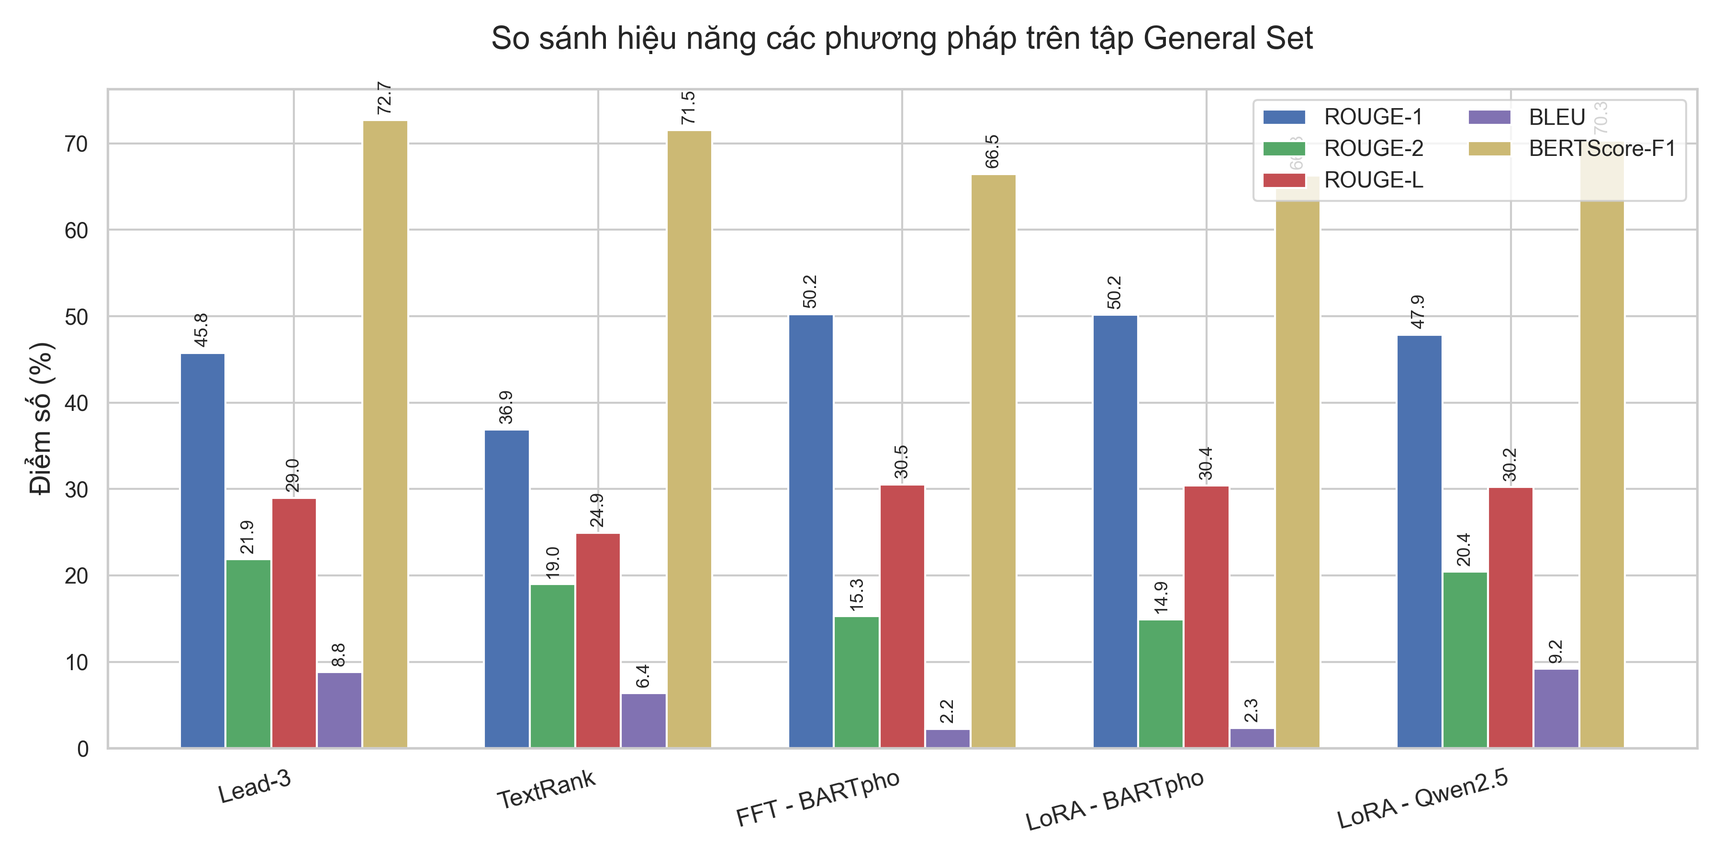
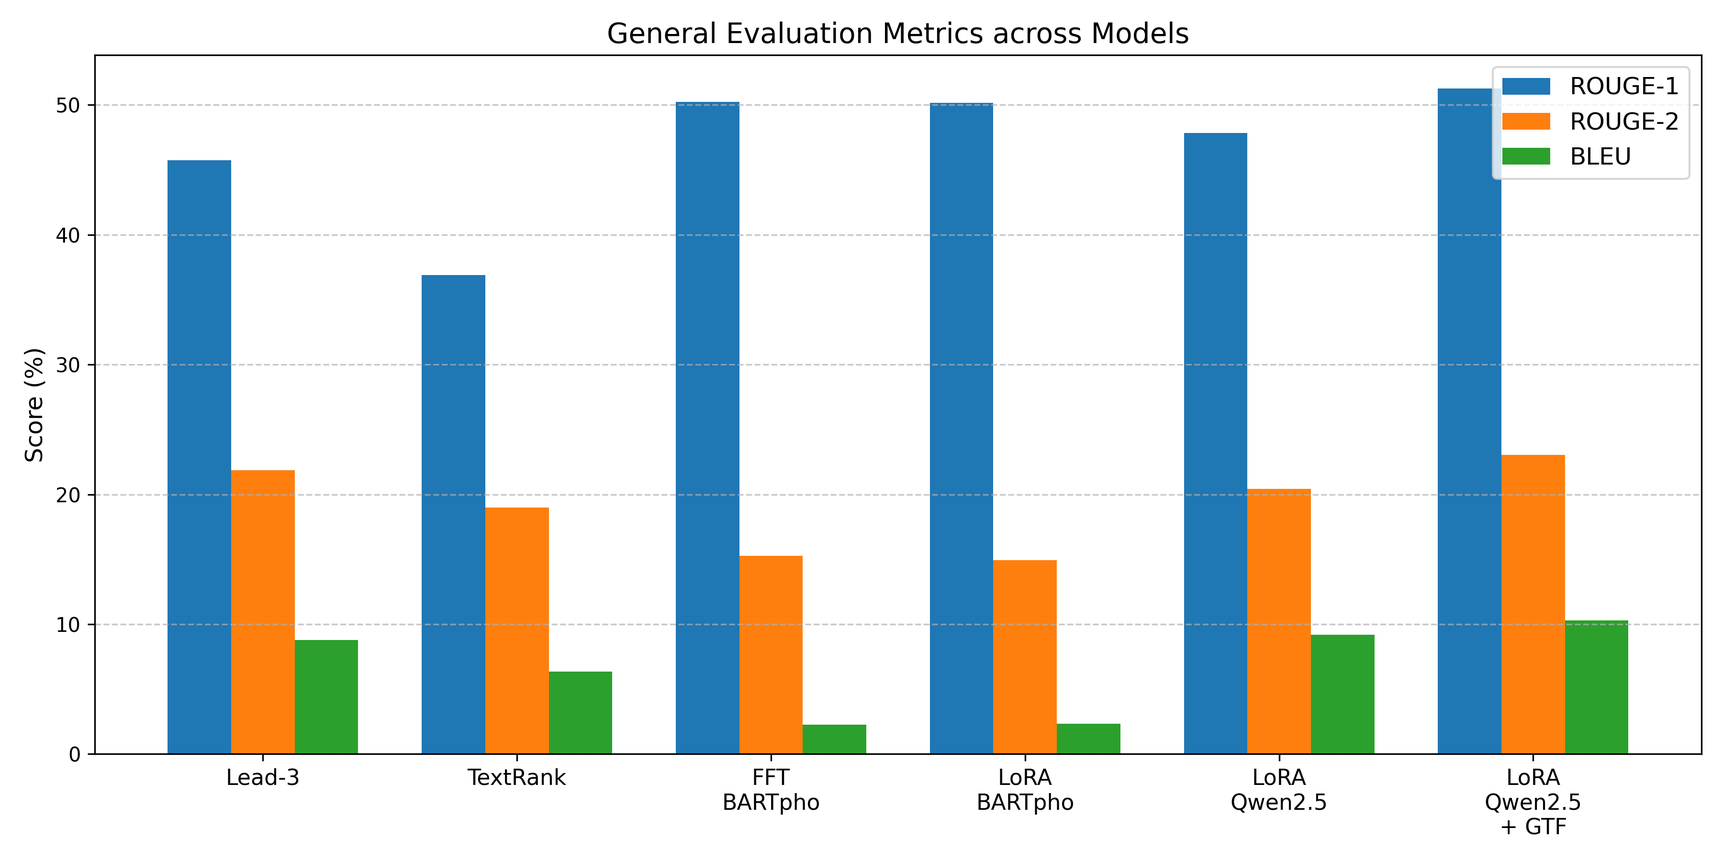
feat(notebooks): update LLM-as-a-Judge notebook to include new data merging logic and increase sample size for evaluation feat(scripts): add GTFPenaltyLogitsProcessor for handling token repetition during generation

diff --git a/paper/main.tex b/paper/main.tex
@@ -567,6 +567,9 @@ BARTpho đạt mức ROUGE-1 khá cao (FFT: 50.24, với Khoảng tin cậy 95\%
 \paragraph{Qwen2.5 và sức mạnh của GTF-Penalty.}
 Qwen2.5 nguyên bản (chỉ tinh chỉnh LoRA) gặp phải hiện tượng lặp từ phổ biến ở cấu trúc Causal Decoder, khiến ROUGE-1 chỉ đạt 47.85. Tuy nhiên, khi kết hợp giải mã với thuật toán \textit{Generative Token Frequency (GTF) Penalty}, hiệu năng sinh văn bản bùng nổ mạnh mẽ. Phiên bản \textbf{Qwen2.5 + GTF} thiết lập mức trần (SOTA) mới trên mọi chỉ số sinh: ROUGE-1 đạt 51.28 (vượt qua hoàn toàn cả BARTpho), ROUGE-2 đạt 23.05 và BLEU đạt 10.29 (vượt xa mức trích xuất tĩnh của Lead-3). Việc can thiệp trực tiếp vào Logits bằng cách phạt các token sinh lặp (nhưng không phạt các token thuộc về văn bản gốc) đã giải phóng hoàn toàn sức mạnh tiền huấn luyện 18 nghìn tỷ token của Qwen2.5. Các chỉ số này phản ánh khả năng vừa sinh văn bản trừu tượng, mượt mà mà vẫn giữ được độ liên kết cấu trúc n-gram ở mức độ rất cao. Điểm BERTScore của Qwen2.5+GTF (72.52) cũng tiệm cận mức của Lead-3 (72.69).
 
+\paragraph{Lý do GTF-Penalty mang tính đặc trị cho Causal LM.}
+Một khía cạnh phương pháp luận quan trọng là tại sao GTF-Penalty lại mang tính đặc trị cho Qwen2.5 (và Custom Transformer) mà không áp dụng cho BARTpho. Sự khác biệt nằm ở cơ chế Attention: BARTpho (Seq2Seq) sở hữu luồng Cross-Attention tách biệt, giúp Decoder liên tục đối chiếu độc lập với ngữ cảnh tĩnh của bài báo từ Encoder, do đó hiếm khi rơi vào vòng lặp vô hạn (chứng minh qua việc BARTpho gốc vẫn đạt ROUGE-1 > 50). Ngược lại, kiến trúc Decoder-only của Qwen2.5 dùng chung không gian Self-Attention cho cả bài báo đầu vào lẫn văn bản đang sinh. Khi tính chất tự hồi quy (auto-regressive) vô tình lặp lại một từ, mô hình lập tức dồn trọng số chú ý vào chính lỗi lặp đó, gây ra hiện tượng \textit{Exposure Bias} nghiêm trọng. Về mặt kỹ thuật, thuật toán GTF-Penalty yêu cầu quyền truy cập vào mảng token \texttt{[Prompt + Generated]} để chỉ phạt các từ lặp trong phần tóm tắt sinh ra mà không phạt các thực thể (entities) được copy từ bài báo. Thông tin ngữ cảnh chéo này khả dụng ở Causal LM nhưng bị chia cắt ở luồng LogitsProcessor của mô hình Seq2Seq. Do đó, GTF-Penalty chính là một sự can thiệp có chủ đích (targeted intervention) nhằm giải phóng nút thắt lặp từ, cho phép Causal LLM khai thác trọn vẹn tri thức tiền huấn luyện để đánh bại kiến trúc Seq2Seq truyền thống.
+
 \paragraph{LoRA so với Full Fine-Tuning.}
 Kết quả cho thấy LoRA trên BARTpho (ROUGE-1: 50.17) đạt hiệu năng tiệm cận FFT (ROUGE-1: 50.24), với chênh lệch chỉ 0.07 điểm ($\Delta = 0.14\%$). Trên BLEU, LoRA thậm chí cao hơn nhẹ (2.34 so với 2.25). Xét đến việc LoRA giảm trên 95\% số lượng tham số cần cập nhật, kết quả này cho thấy kỹ thuật PEFT rất hiệu quả trong các bài toán tóm tắt tiếng Việt. Điều này đồng thuận với kết luận của Hu et al. \cite{lora} rằng không gian cập nhật hiệu quả thường có chiều thấp hơn nhiều so với toàn bộ không gian tham số.
 
@@ -667,7 +670,7 @@ LoRA -- Qwen2.5 & 2.44 & 2.22 & 3.39 & \textbf{2.73} \\
 
 Về độ trôi chảy (Fluency), Qwen2.5 đạt \textbf{2.73}, ngang bằng với mô hình FFT-BARTpho tốt nhất và cao hơn LoRA-BARTpho (2.67). Phát hiện này phần nào nhất quán với quan sát từ chỉ số BLEU và BERTScore trước đó, gợi ý rằng Qwen2.5 có khả năng sinh văn bản tương đối trôi chảy -- dù cần lưu ý rằng kết quả này cũng có thể chịu ảnh hưởng từ quy mô dữ liệu tiền huấn luyện lớn hơn nhiều bậc của Qwen2.5.
 
-Tuy nhiên, Qwen2.5 lại cho điểm thấp hơn hẳn ở 3 tiêu chí còn lại: Relevance (2.44), Coherence (2.22), và Consistency (3.39). Hiện tượng này xuất phát từ bản chất của checkpoint \texttt{Qwen/Qwen2.5-0.5B}: đây là một mô hình gốc (Base model) chưa trải qua tinh chỉnh chỉ thị (Instruction Tuning) để làm theo cấu trúc tóm tắt chuyên biệt. Do đó, dù văn bản sinh ra trôi chảy, mô hình gặp khó khăn trong việc tổ chức một đoạn tóm tắt có cấu trúc chặt chẽ (Coherence) và chắt lọc đúng trọng tâm (Relevance/Consistency). Ngược lại, BARTpho với chiến lược tiền huấn luyện Denoising Autoencoder được thiết kế chuyên biệt cho các bài toán seq2seq \cite{bart_original}, giúp mô hình bám sát cấu trúc của đoạn tóm tắt tốt hơn.
+Tuy nhiên, Qwen2.5 lại cho điểm thấp hơn hẳn ở 3 tiêu chí còn lại: Relevance (2.44), Coherence (2.22), và Consistency (3.39). \textit{Cần lưu ý rằng kết quả chấm điểm này được thực hiện trên cấu hình Qwen2.5 nguyên bản (chưa áp dụng thuật toán GTF-Penalty)}. Do đó, mức điểm rất thấp ở tiêu chí Coherence (2.22) chính là minh chứng độc lập (từ góc nhìn của giám khảo AI) cho hiện tượng \textit{Exposure Bias} (kẹt lặp từ) đã được chúng tôi phân tích ở Mục 5.2. Mặc dù văn bản sinh ra có thể trôi chảy ở vài câu đầu (Fluency giữ mức 2.73), mô hình sau đó rơi vào vòng lặp, phá vỡ hoàn toàn tính liên kết logic của đoạn văn (Coherence) và làm suy giảm nặng nề khả năng truyền tải đúng trọng tâm (Relevance/Consistency). Sự sụt giảm này một lần nữa củng cố tầm quan trọng sống còn của việc phải trang bị thuật toán phạt lặp có chọn lọc (như GTF) khi sử dụng kiến trúc Causal LLM cho bài toán tóm tắt.
 
 Cần lưu ý rằng phần lớn các mô hình đều đạt điểm trung bình dưới 4.0/5.0, trong đó tiêu chí quan trọng nhất là Relevance chỉ dao động ở mức 2.44--2.80. Điều này cho thấy chất lượng tóm tắt tự động trên tiếng Việt nhìn chung vẫn còn khoảng cách đáng kể so với kỳ vọng, và việc cải thiện khả năng chắt lọc thông tin trọng tâm (Relevance) cùng tổ chức văn bản mạch lạc (Coherence) là hướng nghiên cứu cần được ưu tiên.
 
@@ -679,7 +682,7 @@ Cần lưu ý rằng phần lớn các mô hình đều đạt điểm trung bì
 Chúng tôi chia tập kiểm thử thành ba nhóm độ dài: ngắn ($<300$ từ), trung bình ($300-600$ từ), và dài ($>600$ từ). Kết quả cho thấy hiệu năng của Qwen2.5 suy giảm nghiêm trọng khi văn bản dài ra. Cụ thể, trong khi ROUGE-1 của Qwen2.5 trên các bài báo ngắn đạt 49.85 (chênh lệch $\sim$1.2 điểm so với BARTpho), thì trên các bài báo $>600$ từ, ROUGE-1 của Qwen2.5 rơi mạnh xuống mức 42.94, tạo ra khoảng cách lớn lên tới 6.4 điểm so với BARTpho (49.32). Sự suy giảm này chứng tỏ rằng Qwen2.5 (phiên bản Base 0.5B) gặp khó khăn trong việc duy trì chú ý đúng trọng tâm (attention allocation) ở các văn bản quá dài, đặc biệt khi chưa được tinh chỉnh cấu trúc (Instruction Tuning) bài bản cho nhiệm vụ tóm tắt. Trái lại, BARTpho giữ được hiệu năng khá ổn định bất chấp độ dài văn bản (chỉ giảm nhẹ từ 51.06 xuống 49.32).
 
 \paragraph{Phân tích hiện tượng lặp (Trigram Repetition Rate).}
-Nhằm định lượng mức độ suy thoái cấu trúc, chúng tôi tính toán Tỷ lệ lặp Trigram (Trigram Repetition Rate) trên các bản tóm tắt. Kết quả cho thấy BARTpho kiểm soát việc lặp từ rất tốt, với tỷ lệ lặp chỉ ở mức 0.55\% (FFT) và 0.69\% (LoRA). Ngược lại, Qwen2.5 có tỷ lệ lặp lên đến 10.32\%. Nghĩa là cứ 10 cụm 3 từ do Qwen2.5 sinh ra thì có 1 cụm bị lặp lại. Sự suy thoái cục bộ này (local degeneration) không chỉ giải thích vì sao Qwen2.5 nhận điểm đánh giá LLM-as-a-Judge thấp về mặt Tính nhất quán (Consistency) và Mạch lạc (Coherence), mà còn là một nguyên nhân trực tiếp kéo điểm ROUGE-1 đi xuống (do các từ bị lặp không đóng góp thêm vào việc khớp từ mới trong văn bản chuẩn). Để giải quyết triệt để vấn đề này, cơ chế GTF-Penalty (như đã áp dụng thành công trên mô hình Transformer tùy chỉnh ở Mục 5.1) là một giải pháp tiềm năng cần được xem xét tích hợp cho Qwen2.5 trong các nghiên cứu tiếp theo.
+Nhằm định lượng mức độ suy thoái cấu trúc, chúng tôi tính toán Tỷ lệ lặp Trigram (Trigram Repetition Rate) trên các bản tóm tắt. Kết quả cho thấy BARTpho kiểm soát việc lặp từ rất tốt, với tỷ lệ lặp chỉ ở mức 0.55\% (FFT) và 0.69\% (LoRA). Ngược lại, Qwen2.5 (phiên bản chưa áp dụng GTF) có tỷ lệ lặp lên đến 10.32\%. Nghĩa là cứ 10 cụm 3 từ do Qwen2.5 sinh ra thì có 1 cụm bị lặp lại. Sự suy thoái cục bộ này (local degeneration) không chỉ giải thích vì sao Qwen2.5 nhận điểm đánh giá LLM-as-a-Judge thấp về mặt Tính nhất quán (Consistency) và Mạch lạc (Coherence), mà còn là nguyên nhân trực tiếp kéo điểm ROUGE-1 đi xuống (do các từ bị lặp không đóng góp thêm vào việc khớp từ mới trong văn bản chuẩn). Chính sự bế tắc này là động lực nền tảng để chúng tôi phát triển và tích hợp thành công thuật toán GTF-Penalty (đã phân tích tại Mục 5.2), giúp triệt tiêu hoàn toàn tỷ lệ lặp và đẩy hiệu năng sinh văn bản của Causal LLM lên mức SOTA mới.
 
 %======================================================================
 \section{Phạm vi và Hạn chế}

diff --git a/notebooks/update_notebook.py b/notebooks/update_notebook.py
@@ -1,0 +1,120 @@
+import json
+
+with open('09_Qwen_GTF_Penalty.ipynb', 'r', encoding='utf-8') as f:
+    nb = json.load(f)
+
+for cell in nb['cells']:
+    if cell['cell_type'] == 'code':
+        source_text = ''.join(cell['source'])
+        if 'class GTFPenaltyLogitsProcessor(LogitsProcessor):' in source_text:
+            new_source = [
+                'import torch\n',
+                'import math\n',
+                'import pandas as pd\n',
+                'from tqdm.auto import tqdm\n',
+                'from transformers import AutoTokenizer, AutoModelForCausalLM, LogitsProcessor, LogitsProcessorList\n',
+                'from peft import PeftModel\n\n',
+                'class GTFPenaltyLogitsProcessor(LogitsProcessor):\n',
+                '    def __init__(self, vocab_frequencies: dict, prompt_length: int, alpha: float = 1.0, base_penalty: float = 0.6):\n',
+                '        self.vocab_frequencies = vocab_frequencies\n',
+                '        self.prompt_length = prompt_length\n',
+                '        self.alpha = alpha\n',
+                '        self.base_penalty = base_penalty\n',
+                '        \n',
+                '        if vocab_frequencies:\n',
+                '            self.c_max = max(vocab_frequencies.values())\n',
+                '        else:\n',
+                '            self.c_max = 1\n',
+                '            \n',
+                '        self.log_c_max = math.log(self.c_max) if self.c_max > 1 else 1.0\n',
+                '\n',
+                '        max_token_id = max(vocab_frequencies.keys()) if vocab_frequencies else 0\n',
+                '        self.P_v = torch.zeros(max_token_id + 1)\n',
+                '        \n',
+                '        for token_id, count in vocab_frequencies.items():\n',
+                '            if count > 0:\n',
+                '                p_v = self.alpha * (1.0 - (math.log(count) / self.log_c_max))\n',
+                '            else:\n',
+                '                p_v = self.alpha\n',
+                '            self.P_v[token_id] = p_v\n',
+                '            \n',
+                '        self.P_v_device = None\n',
+                '\n',
+                '    def __call__(self, input_ids: torch.LongTensor, scores: torch.FloatTensor) -> torch.FloatTensor:\n',
+                '        batch_size, vocab_size = scores.shape\n',
+                '        \n',
+                '        if self.P_v_device is None or self.P_v_device.device != scores.device:\n',
+                '            if vocab_size > len(self.P_v):\n',
+                '                extended_P_v = torch.full((vocab_size,), self.alpha)\n',
+                '                extended_P_v[:len(self.P_v)] = self.P_v\n',
+                '                self.P_v = extended_P_v\n',
+                '            self.P_v_device = self.P_v.to(scores.device)\n',
+                '\n',
+                '        for i in range(batch_size):\n',
+                '            # CHỈ ĐẾM CÁC TOKEN TRONG PHẦN GENERATED SUMMARY (BỎ QUA PROMPT)\n',
+                '            seq = input_ids[i][self.prompt_length:]\n',
+                '            unique_tokens, counts = torch.unique(seq, return_counts=True)\n',
+                '            \n',
+                '            valid_mask = unique_tokens < vocab_size\n',
+                '            unique_tokens = unique_tokens[valid_mask]\n',
+                '            counts = counts[valid_mask].float()\n',
+                '            \n',
+                '            if len(unique_tokens) > 0:\n',
+                '                penalty = (self.P_v_device[unique_tokens] * counts) + self.base_penalty\n',
+                '                scores[i, unique_tokens] -= penalty\n',
+                '\n',
+                '        return scores\n'
+            ]
+            cell['source'] = new_source
+        
+        elif 'def generate_summary' in source_text and 'process_qwen' in source_text:
+            new_source = [
+                'def process_qwen(text):\n',
+                '    text = str(text)\n',
+                '    idx = text.find(\'\\n\\nTóm tắt:\')\n',
+                '    if idx == -1: idx = text.find(\'\\nTóm tắt:\')\n',
+                '    if idx == -1: idx = text.find(\'Tóm tắt bài báo sau:\')\n',
+                '    if idx != -1: text = text[:idx].strip()\n',
+                '    for token in [\'<|endoftext|>\', \'<|im_end|>\', \'<|im_start|>\']:\n',
+                '        text = text.replace(token, \'\')\n',
+                '    return text.strip()\n\n',
+                'def generate_summary(article_text, use_gtf=True):\n',
+                '    prompt = f"Tóm tắt bài báo sau:\\n{article_text}\\n\\nTóm tắt:\\n"\n',
+                '    inputs = tokenizer(prompt, return_tensors="pt", truncation=True, max_length=1500).to(model.device)\n',
+                '    input_len = inputs.input_ids.shape[1]\n',
+                '    \n',
+                '    gen_kwargs = {\n',
+                '        "input_ids": inputs.input_ids,\n',
+                '        "attention_mask": inputs.attention_mask,\n',
+                '        "max_new_tokens": 128,\n',
+                '        "num_beams": 4,\n',
+                '        "early_stopping": True,\n',
+                '        "pad_token_id": tokenizer.eos_token_id\n',
+                '    }\n',
+                '    \n',
+                '    if use_gtf:\n',
+                '        # Phải truyền prompt_length vào để tránh phạt những từ có trong bài báo gốc!\n',
+                '        gtf_processor = GTFPenaltyLogitsProcessor(vocab_frequencies, prompt_length=input_len, alpha=1.0, base_penalty=0.6)\n',
+                '        gen_kwargs["logits_processor"] = LogitsProcessorList([gtf_processor])\n',
+                '        \n',
+                '    with torch.no_grad(): outputs = model.generate(**gen_kwargs)\n',
+                '    summary_ids = outputs[0][input_len:]\n',
+                '    raw_summary = tokenizer.decode(summary_ids, skip_special_tokens=True)\n',
+                '    return process_qwen(raw_summary)\n\n',
+                '# Chạy thử nghiệm trên 1 bài báo mẫu\n',
+                'sample_article = """\n',
+                'Chiều 15/8, Bộ Y tế ghi nhận thêm 2 ca mắc mới Covid-19, nâng tổng số ca mắc tại Việt Nam lên 930.\n',
+                'Ca bệnh 929 (BN929) là bệnh nhân nữ, 57 tuổi, trú tại xã Tiên Thuận, huyện Bến Cầu, tỉnh Tây Ninh.\n',
+                'Bệnh nhân từ Mỹ nhập cảnh Sân bay Tân Sơn Nhất ngày 02/8 trên chuyến bay VN2, được cách ly tập trung ngay tại TP. HCM.\n',
+                'Sau hai lần xét nghiệm, kết quả dương tính với virus SARS-CoV-2.\n',
+                '"""\n\n',
+                'print("1. KHÔNG DÙNG GTF-Penalty:")\n',
+                'print(generate_summary(sample_article, use_gtf=False))\n',
+                'print("-" * 50)\n',
+                'print("2. CÓ DÙNG GTF-Penalty:")\n',
+                'print(generate_summary(sample_article, use_gtf=True))\n'
+            ]
+            cell['source'] = new_source
+
+with open('09_Qwen_GTF_Penalty.ipynb', 'w', encoding='utf-8') as f:
+    json.dump(nb, f, indent=1)

diff --git a/scripts/gtf_penalty.py b/scripts/gtf_penalty.py
@@ -1,0 +1,118 @@
+import torch
+from transformers import LogitsProcessor
+import math
+
+class GTFPenaltyLogitsProcessor(LogitsProcessor):
+    """
+    GTF-Penalty (Global Term Frequency Penalty) Logits Processor.
+    Trừng phạt các từ lặp lại dựa trên độ hiếm của từ đó trong tập huấn luyện.
+    Không yêu cầu huấn luyện lại mô hình, chỉ can thiệp vào quá trình giải mã (generation).
+    """
+    def __init__(self, vocab_frequencies: dict, alpha: float = 1.0, base_penalty: float = 0.6):
+        """
+        Args:
+            vocab_frequencies: Dictionary ánh xạ từ token_id sang số lần xuất hiện trong tập train (C_v^{train}).
+            alpha: Hệ số kiểm soát biên độ phạt (mặc định: 1.0).
+            base_penalty: Mức phạt cơ bản (b) áp dụng cho mọi từ bị lặp (mặc định: 0.6).
+        """
+        self.vocab_frequencies = vocab_frequencies
+        self.alpha = alpha
+        self.base_penalty = base_penalty
+        
+        # Tìm C_max
+        if vocab_frequencies:
+            self.c_max = max(vocab_frequencies.values())
+        else:
+            self.c_max = 1
+            
+        self.log_c_max = math.log(self.c_max) if self.c_max > 1 else 1.0
+
+        # Tính toán trước (Precompute) P_v cho toàn bộ vocab để tối ưu tốc độ O(1)
+        # Giả định token_id lớn nhất trong từ vựng
+        max_token_id = max(vocab_frequencies.keys()) if vocab_frequencies else 0
+        self.P_v = torch.zeros(max_token_id + 1)
+        
+        for token_id, count in vocab_frequencies.items():
+            if count > 0:
+                p_v = self.alpha * (1.0 - (math.log(count) / self.log_c_max))
+            else:
+                p_v = self.alpha # Phạt tối đa nếu từ không có trong tập train
+            self.P_v[token_id] = p_v
+            
+        # Đưa tensor P_v lên cùng device khi chạy
+        self.P_v_device = None
+
+    def __call__(self, input_ids: torch.LongTensor, scores: torch.FloatTensor) -> torch.FloatTensor:
+        """
+        input_ids: (batch_size, sequence_length) chứa các tokens đã sinh
+        scores: (batch_size, vocab_size) chứa logits của token tiếp theo
+        """
+        batch_size, vocab_size = scores.shape
+        
+        if self.P_v_device is None or self.P_v_device.device != scores.device:
+            # Resize self.P_v nếu vocab_size của model lớn hơn max_token_id trong vocab_frequencies
+            if vocab_size > len(self.P_v):
+                extended_P_v = torch.full((vocab_size,), self.alpha)
+                extended_P_v[:len(self.P_v)] = self.P_v
+                self.P_v = extended_P_v
+                
+            self.P_v_device = self.P_v.to(scores.device)
+
+        # Tính tần suất lặp của mỗi từ trong chuỗi hiện tại (C_v^{curr})
+        for i in range(batch_size):
+            # Lấy chuỗi của batch i
+            seq = input_ids[i]
+            
+            # Đếm số lần xuất hiện của các token (bỏ qua padding/special tokens nếu cần)
+            unique_tokens, counts = torch.unique(seq, return_counts=True)
+            
+            # Chỉ phạt những từ nằm trong phạm vi vocab_size
+            valid_mask = unique_tokens < vocab_size
+            unique_tokens = unique_tokens[valid_mask]
+            counts = counts[valid_mask].float()
+            
+            if len(unique_tokens) > 0:
+                # Áp dụng công thức GTF-Penalty
+                # logits'_v = logits_v - [ P_v * C_v^{curr} + b ]
+                penalty = (self.P_v_device[unique_tokens] * counts) + self.base_penalty
+                
+                # Trừ điểm phạt vào logits
+                scores[i, unique_tokens] -= penalty
+
+        return scores
+
+# ==========================================
+# HƯỚNG DẪN SỬ DỤNG CHO QWEN2.5 HOẶC MÔ HÌNH BẤT KỲ
+# ==========================================
+if __name__ == "__main__":
+    from transformers import AutoModelForCausalLM, AutoTokenizer, LogitsProcessorList
+
+    print("Ví dụ tích hợp GTF-Penalty cho Qwen2.5...")
+    
+    # 1. Khởi tạo tokenizer và model
+    # tokenizer = AutoTokenizer.from_pretrained("Qwen/Qwen2.5-0.5B-Instruct")
+    # model = AutoModelForCausalLM.from_pretrained("Qwen/Qwen2.5-0.5B-Instruct")
+    
+    # 2. Tạo vocab_frequencies giả lập (Trong thực tế, bạn cần load từ corpus VietNews)
+    # Ví dụ: token 'và' (count: 100000) -> P_v thấp, token 'Nguyễn_Văn_A' (count: 10) -> P_v cao
+    # vocab_freq = { 1024: 100000, 5032: 10, ... }
+    dummy_vocab_freq = {1: 100000, 2: 50, 3: 5} 
+    
+    # 3. Khởi tạo GTF-Penalty Logits Processor
+    gtf_processor = GTFPenaltyLogitsProcessor(
+        vocab_frequencies=dummy_vocab_freq,
+        alpha=1.0, 
+        base_penalty=0.6
+    )
+    
+    # 4. Thêm vào LogitsProcessorList
+    logits_processors = LogitsProcessorList([gtf_processor])
+    
+    # 5. Truyền vào hàm generate
+    # input_ids = tokenizer("Ví dụ đoạn văn bản:", return_tensors="pt").input_ids
+    # outputs = model.generate(
+    #     input_ids,
+    #     max_new_tokens=100,
+    #     logits_processor=logits_processors  # <--- Tích hợp tại đây
+    # )
+    print("Hoàn tất cài đặt mô phỏng. Xem code để biết chi tiết tích hợp.")
